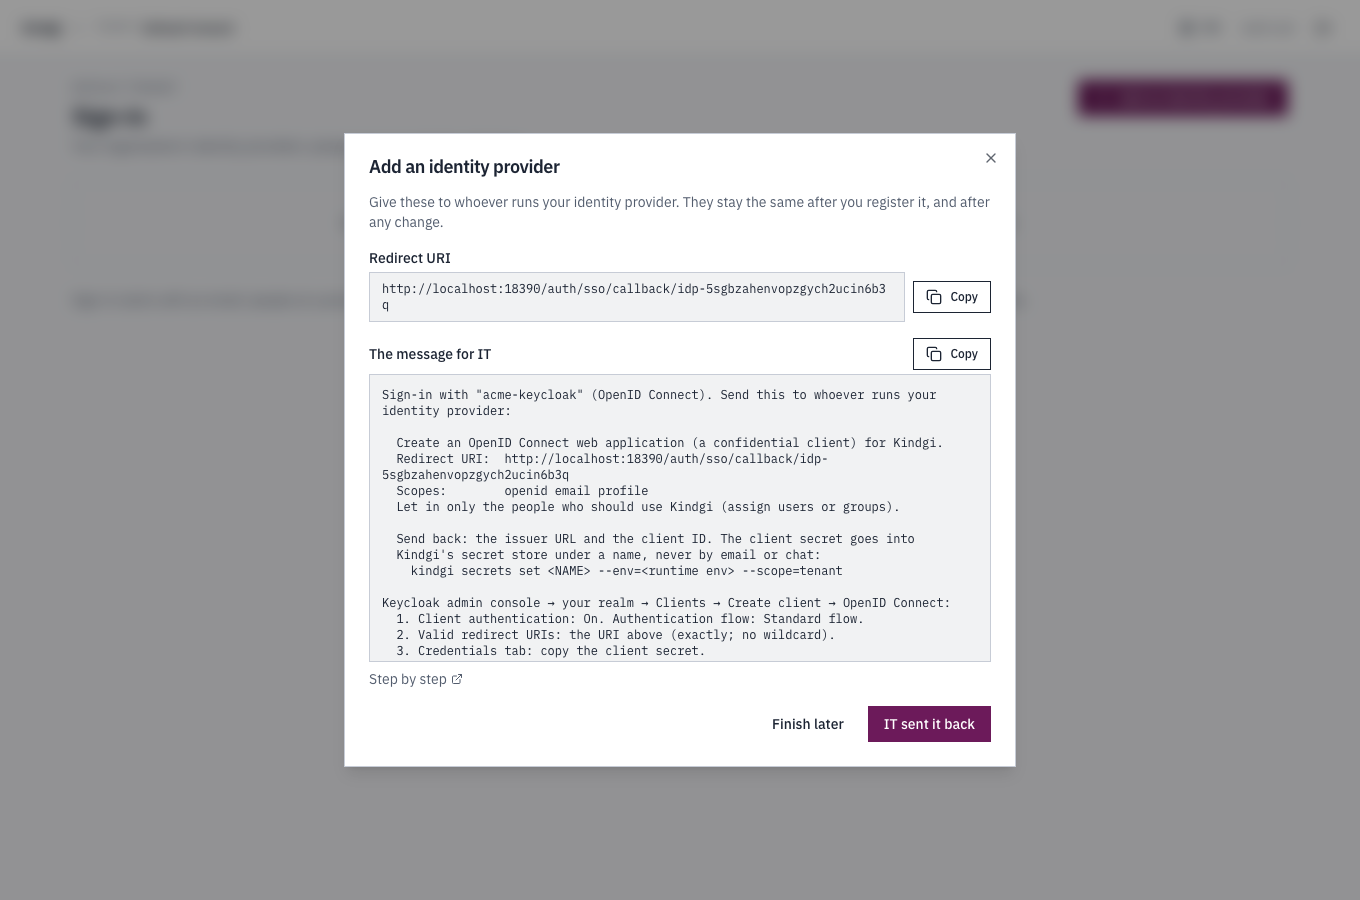
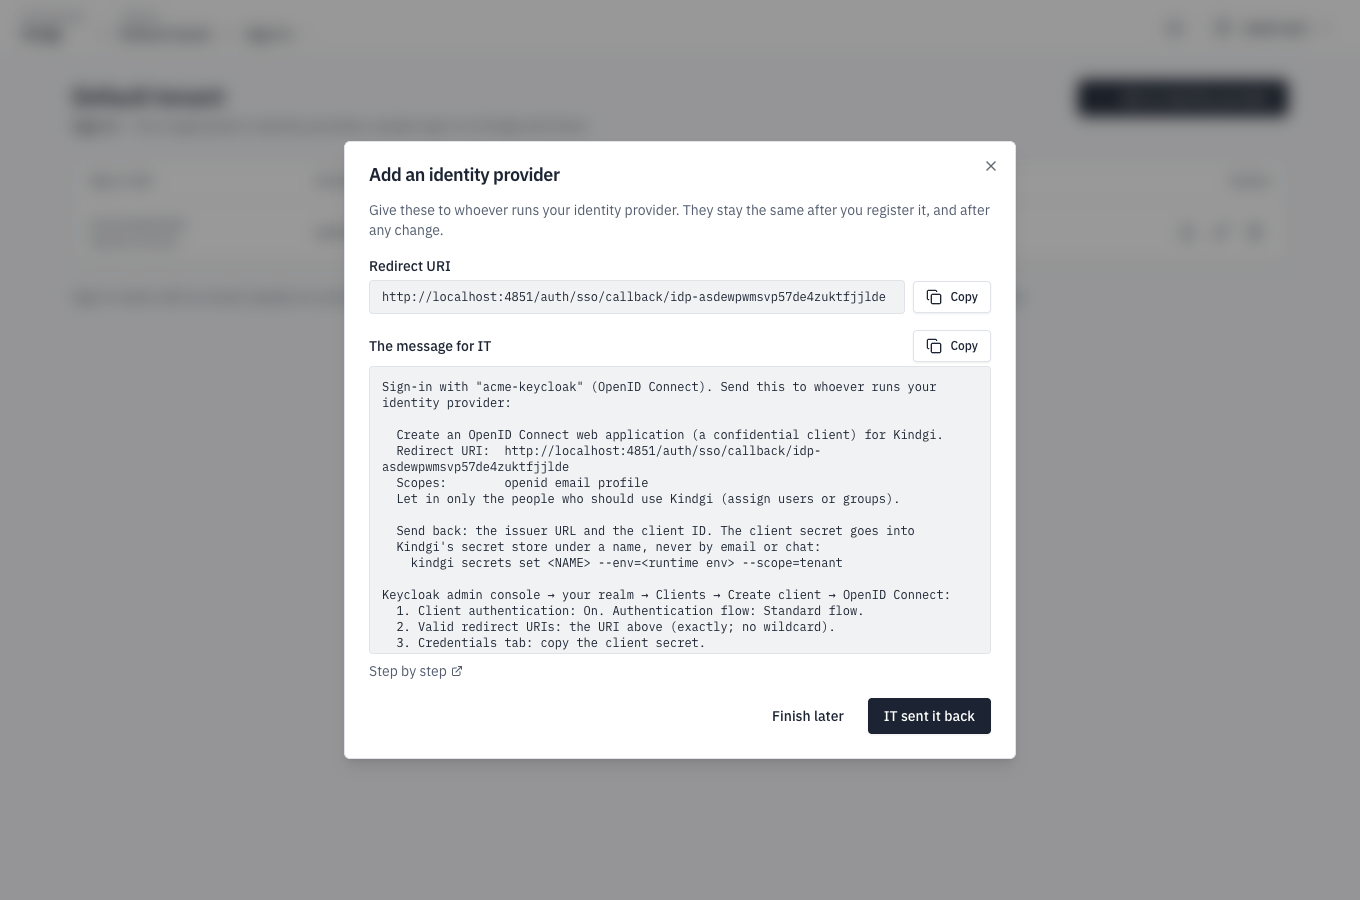
docs(console): retake the sign-in, keys, outgoing webhooks and quality shots
25 retakes and the Quality queue's shot under its new name, with the
text they show: row actions are icons, named in their tooltips (a
delivery's Send again, the queue's Dismiss and Reopen, a rule's History,
Change and Remove, a provider's Try, Change and Remove); a service
account's own page has Make a key for it and Remove; a delivery's
Details; the proposal groups show only when they have one; the lists
have no count lines; agents and comparisons are named in words.

diff --git a/site/src/content/docs/guides/sso/index.md b/site/src/content/docs/guides/sso/index.md
@@ -228,18 +228,19 @@ A workspace admin does the same steps on the console's **Sign-in** page:
   the service provider's URLs instead of the redirect URI. **Finish later**
   closes it. Adding the same id again gives the same URLs.
 
-  ![Add an identity provider: the redirect URI and the message for IT, with Keycloak's steps, then Finish later and IT sent it back](../../../../assets/sso/console-add-provider.png)
+  ![Add an identity provider: the redirect URI and the message for IT, with Keycloak's steps and a Step by step link, then Finish later and IT sent it back](../../../../assets/sso/console-add-provider.png)
 
 - **IT sent it back** takes what IT returns: the issuer, the client ID and
   the client secret's name in your secrets, or the SAML metadata XML.
   **Check** looks the secret's name up, never its value. You then enter the
   domains and the button's name. **Register** adds the provider to sign-in.
 - **The list** shows each provider with its domains, its host and who gets
-  in. **Try** gives a sign-in link for someone at its domains. **Change**
-  edits it in place, and warns you before a change that signs its people
-  out. **Remove** takes it out of sign-in.
+  in. Its actions are icons, each named in its tooltip. **Try** gives a
+  sign-in link for someone at its domains. **Change** edits it in place,
+  and warns you before a change that signs its people out. **Remove** takes
+  it out of sign-in.
 
-  ![The Sign-in page: Acme Keycloak, OpenID Connect, at acme.test, with Try, Change and Remove](../../../../assets/sso/console-providers.png)
+  ![The Sign-in page: Acme Keycloak, OpenID Connect, for acme.test, letting in people added to this tenant, with the icons for Try, Change and Remove](../../../../assets/sso/console-providers.png)
 
 Whoever runs Kindgi can manage sign-in for every workspace themselves, with
 `KINDGI_AUTH_TENANT_PROVIDERS=off`

diff --git a/site/src/content/docs/deploy/people-and-keys.md b/site/src/content/docs/deploy/people-and-keys.md
@@ -375,11 +375,12 @@ It's refused for yourself and for the seed user, with
   tenant admin can make one for a person or a service account too. The
   secret shows once, with a Copy button.
 
-  ![The API keys page: one key, labelled laptop, acting as Sam Rivera with the member role, never used, expiring a month after it was made, with a Revoke button.](../../../assets/people/api-keys.png)
-- **Service accounts,** for tenant admins: create one with its grants,
-  change them, make it a key, or unregister it.
+  ![The API keys page: one key, labelled laptop, acting as Sam Rivera on every project it can reach, with the member role, never used, expiring a month after it was made, and Revoke, an icon on its row.](../../../assets/people/api-keys.png)
+- **Service accounts,** for tenant admins: create one with its grants. On
+  its own page, change them, **Make a key for it**, or **Remove** it, which
+  revokes its keys.
 
-  ![The Service accounts page: acme-ci, "Deploys from CI", editor on the Default project, with no active keys yet.](../../../assets/people/service-accounts.png)
+  ![The Service accounts page: acme-ci, "Deploys from CI", which may act as an editor on the Default project, with no active keys yet.](../../../assets/people/service-accounts.png)
 
 A project you have no role on shows **No access**, with the projects you can
 open.

diff --git a/site/src/content/docs/deploy/sign-in.md b/site/src/content/docs/deploy/sign-in.md
@@ -179,7 +179,7 @@ KINDGI_AUTH_TENANT_PROVIDERS=off
 - **The console's Sign-in page** says who manages it, and lists the
   providers with **Try** only:
 
-  ![The Sign-in page with KINDGI_AUTH_TENANT_PROVIDERS=off: Whoever runs Kindgi manages sign-in here, and acme-ops listed with Try only](../../../assets/sso/console-providers-operator.png)
+  ![The Sign-in page with KINDGI_AUTH_TENANT_PROVIDERS=off: Whoever runs Kindgi manages sign-in here, and acme-ops listed with the Try icon only](../../../assets/sso/console-providers-operator.png)
 
 `on` is the default. Like the other settings here, it needs sign-in on.
 

diff --git a/site/src/content/docs/guides/sso/sign-in.md b/site/src/content/docs/guides/sso/sign-in.md
@@ -53,7 +53,7 @@ too, and this keeps them from using yours.
 
 The link works once, for ten minutes. After that:
 
-![This sign-in link has been used or has expired. A link works once, for ten minutes. Enter your email to get a new one.](../../../../assets/sso/sign-in-link-used.png)
+![This sign-in link has been used or has expired. A link works once, for ten minutes. Enter your email to get a new one. Detail: link-invalid](../../../../assets/sso/sign-in-link-used.png)
 
 ## When sign-in doesn't let you in
 
